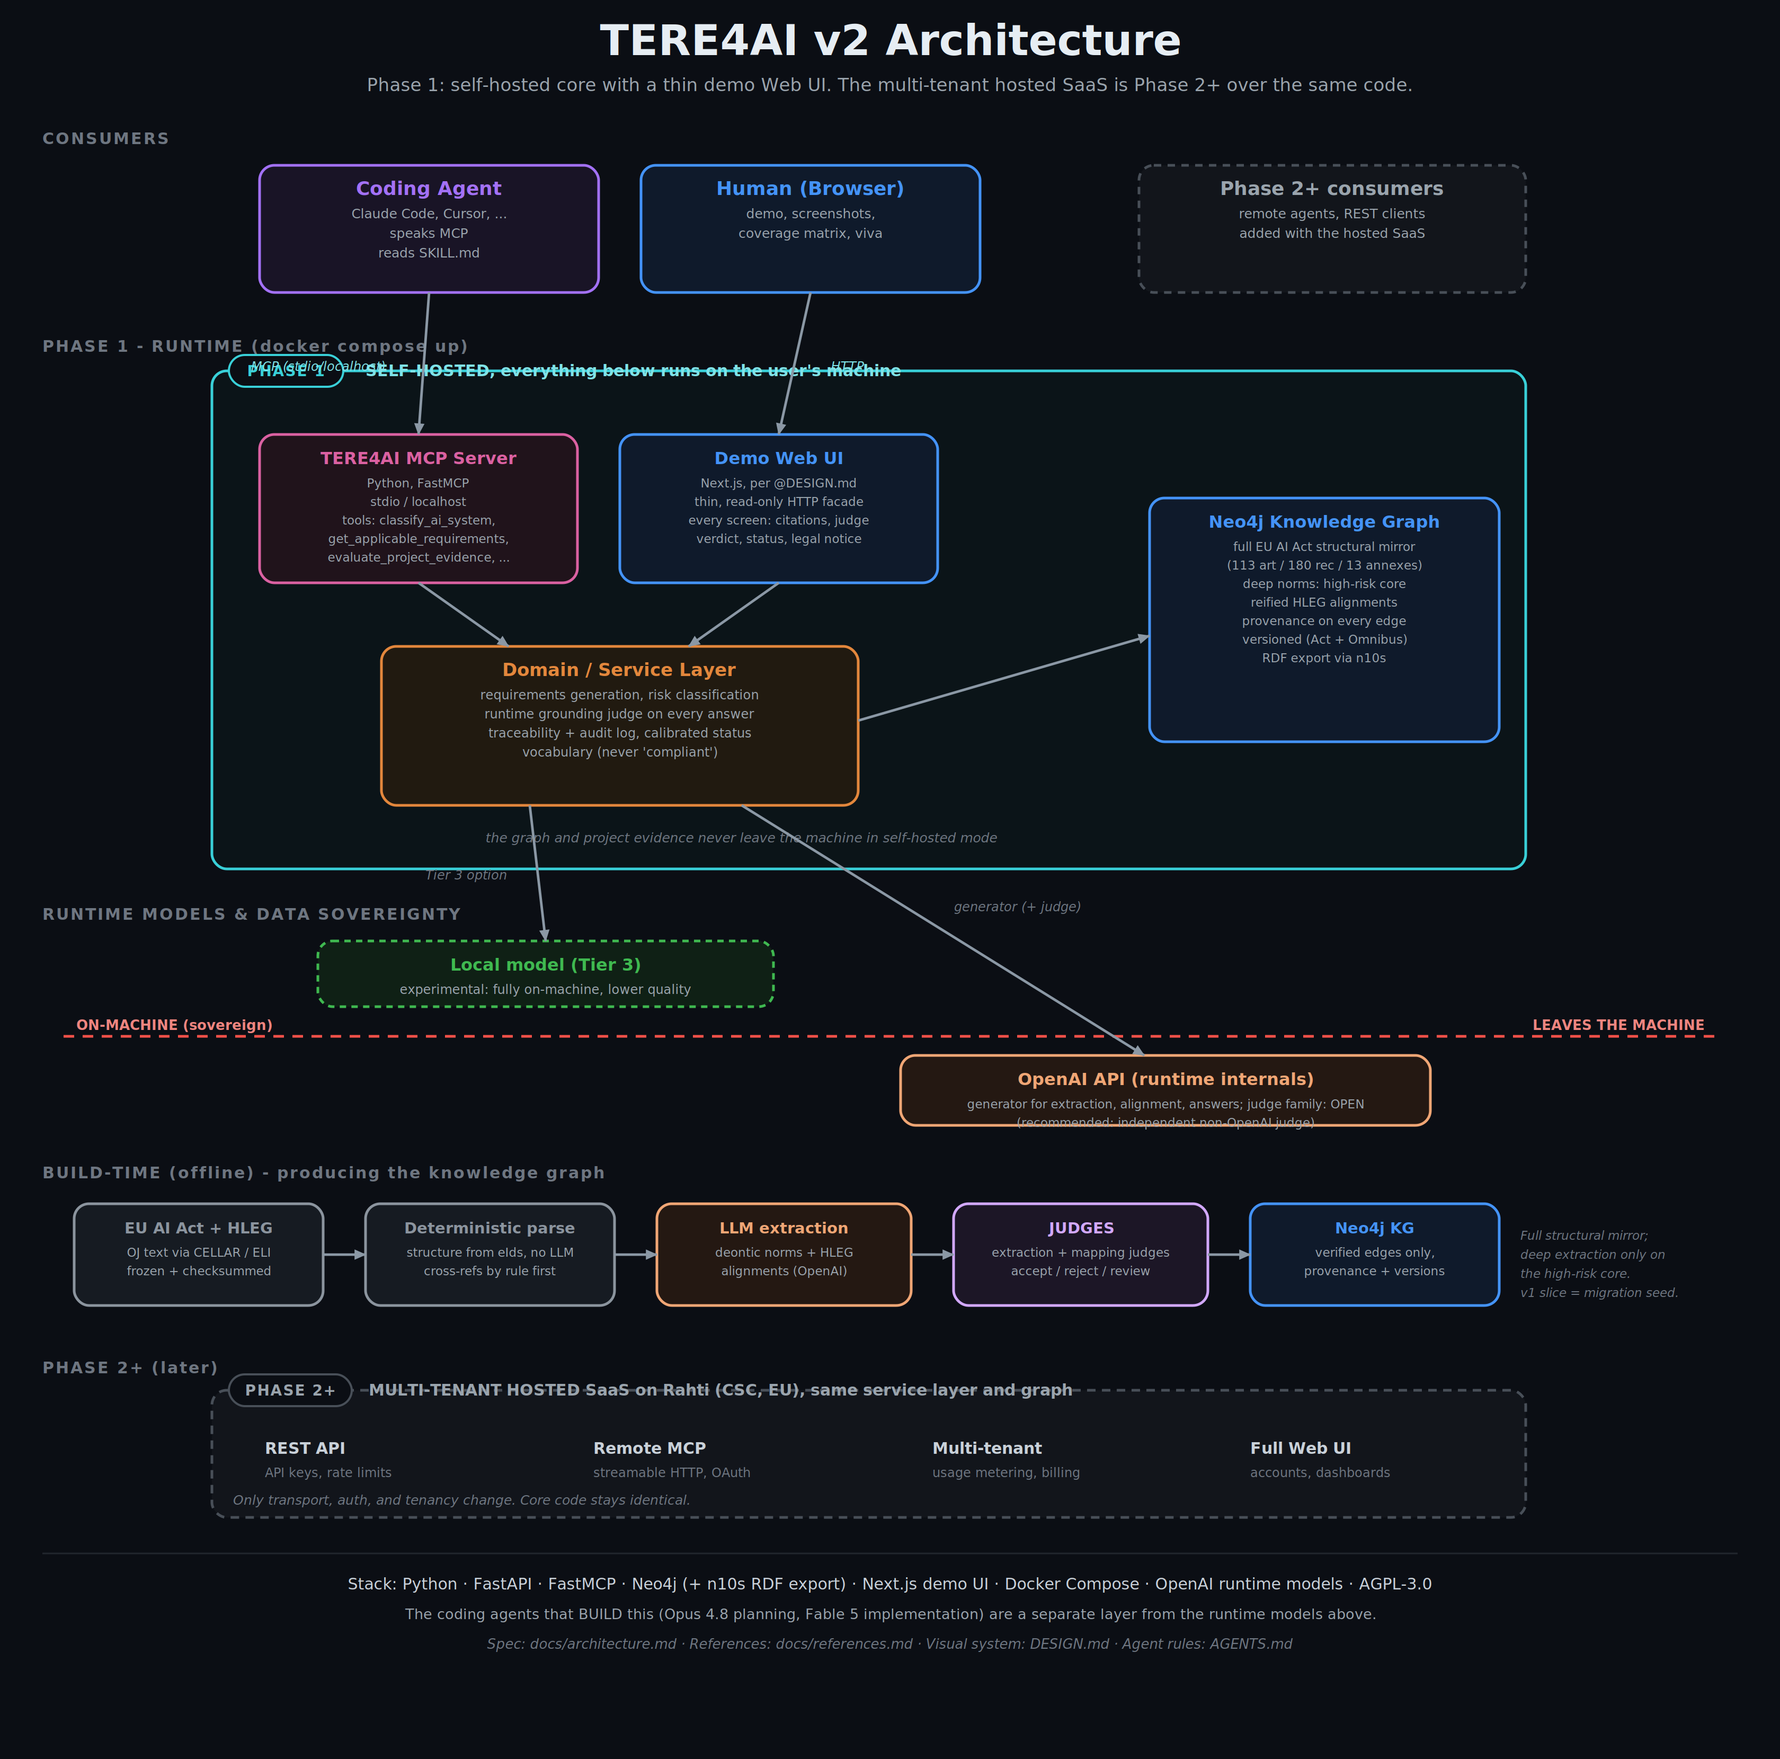
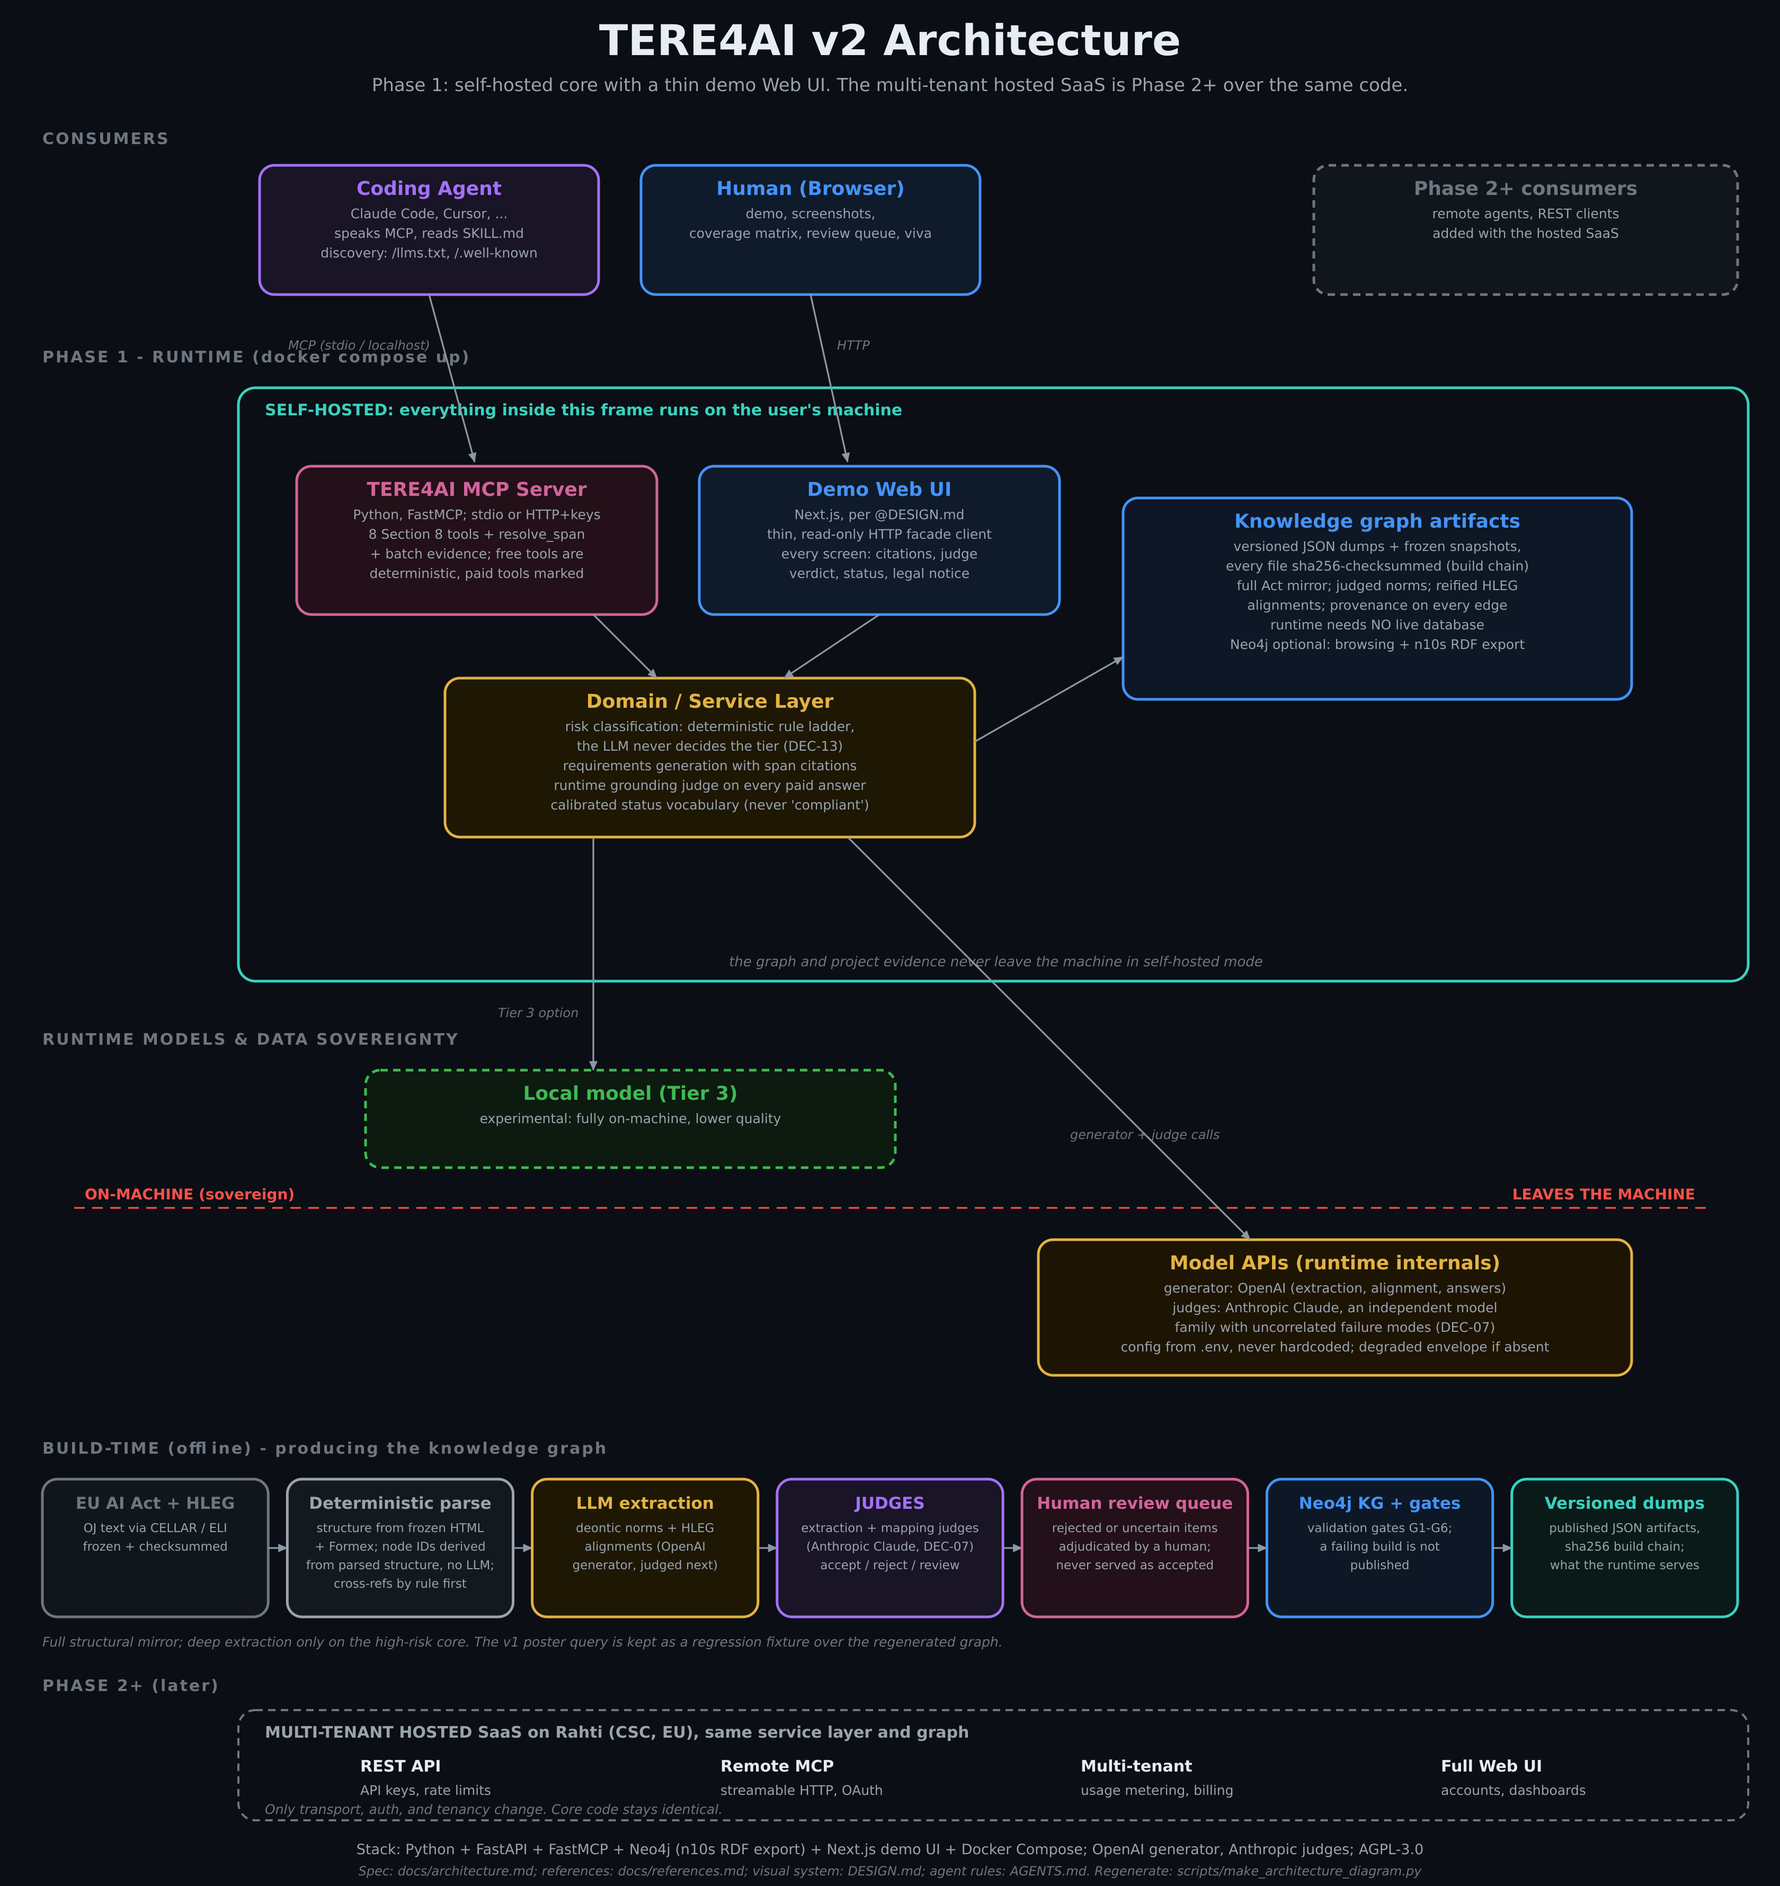
Regenerate the architecture diagram from a deterministic script (3 stale labels fixed)
The committed SVG/PNG was an unregenerable blob carrying three factually
stale labels found by the 2026-07-17 audit: 'structure from eIds' (the
served manifestations carry no eIds; IDs are parser-derived, Section 6),
'judge family: OPEN' (closed 2026-07-08 as Anthropic Claude, DEC-07), and
'v1 slice = migration seed' (replaced by regeneration; the poster query
is a regression fixture). It also had two visual defects (overlapping
edge labels, clipped box text) and misrepresented the runtime as serving
from live Neo4j when it serves versioned checksummed JSON dumps.

scripts/make_architecture_diagram.py now generates the SVG byte-
deterministically (no timestamps); the corrected figure adds the Anthropic
judge to the leaves-the-machine sovereignty zone, a human-review-queue
stage in the build lane, and a versioned-dumps stage; PNG re-rendered via
inkscape at 3360px. tests/unit/test_architecture_diagram.py pins the
committed SVG byte-identical to the generator output and asserts the
stale claims stay out and the decided facts stay in.

diff --git a/scripts/make_architecture_diagram.py b/scripts/make_architecture_diagram.py
@@ -1,0 +1,296 @@
+"""Generate the TERE4AI v2 architecture diagram (SVG) deterministically.
+
+The previous tere4ai_v2_architecture.svg was an unregenerable committed
+blob with three stale labels (eIds that do not exist in the source, an
+open judge-family decision that was closed 2026-07-08, and a v1-migration
+plan that was replaced by regeneration) plus two visual defects
+(overlapping edge labels, clipped box text). This script makes the figure
+a derived artifact like everything else in the build: run it and the SVG
+is rewritten byte-identically (no timestamps, no randomness).
+
+  .venv/bin/python scripts/make_architecture_diagram.py
+  inkscape tere4ai_v2_architecture.svg \
+      --export-filename=tere4ai_v2_architecture.png --export-width=3360
+
+Content decisions encoded here (kept in sync with docs/architecture.md):
+node IDs are parser-derived, not eIds (Section 6); the judge family is
+Anthropic Claude, independent from the OpenAI generator (DEC-07); judge
+calls leave the machine just like generator calls (Section 9 sovereignty);
+the runtime serves versioned, checksummed JSON dumps and needs no live
+database (Neo4j is the build-time store and optional for browsing and RDF
+export); rejected or uncertain items go to a human review queue and are
+never served as accepted.
+"""
+
+from __future__ import annotations
+
+from pathlib import Path
+
+W, H = 1680, 1780
+FONT = "DejaVu Sans, sans-serif"
+BG = "#0b0e14"
+INK = "#e6edf3"
+MUTED = "#9aa4ad"
+FAINT = "#6e7681"
+ARROW = "#8b98a5"
+
+OUT_PATH = Path(__file__).resolve().parents[1] / "tere4ai_v2_architecture.svg"
+
+_parts: list[str] = []
+
+
+def esc(s: str) -> str:
+    return s.replace("&", "&amp;").replace("<", "&lt;").replace(">", "&gt;")
+
+
+def text(
+    x: float,
+    y: float,
+    s: str,
+    size: float = 12.5,
+    fill: str = MUTED,
+    anchor: str = "middle",
+    weight: str | None = None,
+    spacing: str | None = None,
+    style: str | None = None,
+) -> None:
+    attrs = (
+        f'x="{x}" y="{y}" font-family="{FONT}" font-size="{size}" '
+        f'fill="{fill}" text-anchor="{anchor}"'
+    )
+    if weight:
+        attrs += f' font-weight="{weight}"'
+    if spacing:
+        attrs += f' letter-spacing="{spacing}"'
+    if style:
+        attrs += f' font-style="{style}"'
+    _parts.append(f"<text {attrs}>{esc(s)}</text>")
+
+
+def box(
+    x: float,
+    y: float,
+    w: float,
+    h: float,
+    title: str,
+    lines: list[str],
+    stroke: str,
+    fill: str,
+    dashed: bool = False,
+    title_size: float = 18,
+    line_size: float = 12.5,
+) -> tuple[float, float, float, float]:
+    dash = ' stroke-dasharray="7,5"' if dashed else ""
+    _parts.append(
+        f'<rect x="{x}" y="{y}" width="{w}" height="{h}" rx="14" '
+        f'fill="{fill}" stroke="{stroke}" stroke-width="2.5"{dash}/>'
+    )
+    cx = x + w / 2
+    text(cx, y + 28, title, size=title_size, fill=stroke, weight="bold")
+    ly = y + 50
+    for line in lines:
+        text(cx, ly, line, size=line_size)
+        ly += line_size + 6
+    return (x, y, w, h)
+
+
+def arrow(x1: float, y1: float, x2: float, y2: float, label: str = "", lx: float | None = None, ly: float | None = None) -> None:
+    _parts.append(
+        f'<line x1="{x1}" y1="{y1}" x2="{x2}" y2="{y2}" stroke="{ARROW}" '
+        f'stroke-width="1.6" marker-end="url(#ah)"/>'
+    )
+    if label:
+        text(lx if lx is not None else (x1 + x2) / 2 + 8, ly if ly is not None else (y1 + y2) / 2 - 6, label, size=12, fill=FAINT, anchor="start", style="italic")
+
+
+def zone_label(x: float, y: float, s: str) -> None:
+    text(x, y, s, size=15, fill=FAINT, anchor="start", weight="bold", spacing="1.5")
+
+
+def build() -> str:
+    _parts.clear()
+    _parts.append(
+        f'<svg xmlns="http://www.w3.org/2000/svg" width="{W}" height="{H}" '
+        f'viewBox="0 0 {W} {H}">'
+        '<defs><marker id="ah" markerWidth="11" markerHeight="11" refX="8.5" '
+        'refY="4" orient="auto" markerUnits="userSpaceOnUse">'
+        f'<path d="M0,0 L9,4 L0,8 z" fill="{ARROW}"/></marker></defs>'
+        f'<rect x="0" y="0" width="{W}" height="{H}" fill="{BG}"/>'
+    )
+    text(W / 2, 52, "TERE4AI v2  Architecture", size=40, fill=INK, weight="bold")
+    text(
+        W / 2,
+        86,
+        "Phase 1: self-hosted core with a thin demo Web UI. "
+        "The multi-tenant hosted SaaS is Phase 2+ over the same code.",
+        size=17,
+    )
+
+    # Consumers
+    zone_label(40, 136, "CONSUMERS")
+    box(
+        245, 156, 320, 122, "Coding Agent",
+        ["Claude Code, Cursor, ...", "speaks MCP, reads SKILL.md",
+         "discovery: /llms.txt, /.well-known"],
+        "#a371f7", "#191426",
+    )
+    box(
+        605, 156, 320, 122, "Human (Browser)",
+        ["demo, screenshots,", "coverage matrix, review queue, viva"],
+        "#4493f8", "#0f1a2b",
+    )
+    box(
+        1240, 156, 400, 122, "Phase 2+ consumers",
+        ["remote agents, REST clients", "added with the hosted SaaS"],
+        "#6e7681", "#11151c", dashed=True,
+    )
+
+    # Phase 1 runtime zone
+    zone_label(40, 342, "PHASE 1 - RUNTIME (docker compose up)")
+    _parts.append(
+        '<rect x="225" y="366" width="1425" height="560" rx="16" fill="none" '
+        'stroke="#39d2c0" stroke-width="2.5"/>'
+    )
+    text(250, 392, "SELF-HOSTED: everything inside this frame runs on the user's machine",
+         size=15, fill="#39d2c0", anchor="start", weight="bold")
+
+    arrow(405, 278, 448, 436, "MCP (stdio / localhost)", lx=272, ly=330)
+    arrow(765, 278, 800, 436, "HTTP", lx=790, ly=330)
+
+    box(
+        280, 440, 340, 140, "TERE4AI MCP Server",
+        ["Python, FastMCP; stdio or HTTP+keys",
+         "8 Section 8 tools + resolve_span",
+         "+ batch evidence; free tools are",
+         "deterministic, paid tools marked"],
+        "#d2649a", "#231018",
+    )
+    box(
+        660, 440, 340, 140, "Demo Web UI",
+        ["Next.js, per @DESIGN.md",
+         "thin, read-only HTTP facade client",
+         "every screen: citations, judge",
+         "verdict, status, legal notice"],
+        "#4493f8", "#0f1a2b",
+    )
+    box(
+        420, 640, 500, 150, "Domain / Service Layer",
+        ["risk classification: deterministic rule ladder,",
+         "the LLM never decides the tier (DEC-13)",
+         "requirements generation with span citations",
+         "runtime grounding judge on every paid answer",
+         "calibrated status vocabulary (never 'compliant')"],
+        "#e3b341", "#1d1704",
+    )
+    box(
+        1060, 470, 480, 190, "Knowledge graph artifacts",
+        ["versioned JSON dumps + frozen snapshots,",
+         "every file sha256-checksummed (build chain)",
+         "full Act mirror; judged norms; reified HLEG",
+         "alignments; provenance on every edge",
+         "runtime needs NO live database",
+         "Neo4j optional: browsing + n10s RDF export"],
+        "#4493f8", "#0d1726",
+    )
+    arrow(560, 580, 620, 640)
+    arrow(830, 580, 740, 640)
+    arrow(920, 700, 1060, 620)
+    text(940, 912, "the graph and project evidence never leave the machine in self-hosted mode",
+         size=13, fill=FAINT, style="italic")
+
+    # Sovereignty
+    zone_label(40, 986, "RUNTIME MODELS & DATA SOVEREIGNTY")
+    box(
+        345, 1010, 500, 92, "Local model (Tier 3)",
+        ["experimental: fully on-machine, lower quality"],
+        "#3fb950", "#0c1a10", dashed=True,
+    )
+    arrow(560, 790, 560, 1010, "Tier 3 option", lx=470, ly=960)
+    _parts.append(
+        f'<line x1="70" y1="1140" x2="{W - 70}" y2="1140" stroke="#f85149" '
+        'stroke-width="1.6" stroke-dasharray="10,7"/>'
+    )
+    text(80, 1132, "ON-MACHINE (sovereign)", size=14, fill="#f85149", anchor="start", weight="bold")
+    text(W - 80, 1132, "LEAVES THE MACHINE", size=14, fill="#f85149", anchor="end", weight="bold")
+    box(
+        980, 1170, 560, 128, "Model APIs (runtime internals)",
+        ["generator: OpenAI (extraction, alignment, answers)",
+         "judges: Anthropic Claude, an independent model",
+         "family with uncorrelated failure modes (DEC-07)",
+         "config from .env, never hardcoded; degraded envelope if absent"],
+        "#e3b341", "#1d1403",
+    )
+    arrow(800, 790, 1180, 1170, "generator + judge calls", lx=1010, ly=1075)
+
+    # Build-time lane
+    zone_label(40, 1372, "BUILD-TIME (offline) - producing the knowledge graph")
+    lane_y = 1396
+    lane_h = 130
+    boxes = [
+        ("EU AI Act + HLEG", ["OJ text via CELLAR / ELI", "frozen + checksummed"], "#6e7681", "#11151c"),
+        ("Deterministic parse", ["structure from frozen HTML", "+ Formex; node IDs derived", "from parsed structure, no LLM;", "cross-refs by rule first"], "#9aa4ad", "#141920"),
+        ("LLM extraction", ["deontic norms + HLEG", "alignments (OpenAI", "generator, judged next)"], "#e3b341", "#1d1704"),
+        ("JUDGES", ["extraction + mapping judges", "(Anthropic Claude, DEC-07)", "accept / reject / review"], "#a371f7", "#191426"),
+        ("Human review queue", ["rejected or uncertain items", "adjudicated by a human;", "never served as accepted"], "#d2649a", "#231018"),
+        ("Neo4j KG + gates", ["validation gates G1-G6;", "a failing build is not", "published"], "#4493f8", "#0d1726"),
+        ("Versioned dumps", ["published JSON artifacts,", "sha256 build chain;", "what the runtime serves"], "#39d2c0", "#0a1a18"),
+    ]
+    n = len(boxes)
+    gap = 18
+    bw = (W - 80 - gap * (n - 1)) / n
+    x = 40
+    for i, (title, lines, stroke, fill) in enumerate(boxes):
+        box(x, lane_y, bw, lane_h, title, lines, stroke, fill, title_size=15.5, line_size=11.5)
+        if i < n - 1:
+            arrow(x + bw, lane_y + lane_h / 2, x + bw + gap, lane_y + lane_h / 2)
+        x += bw + gap
+    text(
+        40, lane_y + lane_h + 28,
+        "Full structural mirror; deep extraction only on the high-risk core. "
+        "The v1 poster query is kept as a regression fixture over the regenerated graph.",
+        size=12.5, fill=FAINT, anchor="start", style="italic",
+    )
+
+    # Phase 2+
+    zone_label(40, 1596, "PHASE 2+ (later)")
+    _parts.append(
+        '<rect x="225" y="1614" width="1425" height="104" rx="16" fill="none" '
+        'stroke="#6e7681" stroke-width="2" stroke-dasharray="7,5"/>'
+    )
+    text(250, 1640, "MULTI-TENANT HOSTED SaaS on Rahti (CSC, EU), same service layer and graph",
+         size=15, fill=MUTED, anchor="start", weight="bold")
+    cols = [
+        ("REST API", "API keys, rate limits"),
+        ("Remote MCP", "streamable HTTP, OAuth"),
+        ("Multi-tenant", "usage metering, billing"),
+        ("Full Web UI", "accounts, dashboards"),
+    ]
+    cx = 340
+    for title, sub in cols:
+        text(cx, 1672, title, size=15, fill=INK, weight="bold", anchor="start")
+        text(cx, 1694, sub, size=12.5, anchor="start")
+        cx += 340
+    text(250, 1712, "Only transport, auth, and tenancy change. Core code stays identical.",
+         size=12.5, fill=FAINT, anchor="start", style="italic")
+
+    # Footer
+    text(W / 2, 1750,
+         "Stack: Python + FastAPI + FastMCP + Neo4j (n10s RDF export) + Next.js demo UI + "
+         "Docker Compose; OpenAI generator, Anthropic judges; AGPL-3.0",
+         size=13.5, fill=MUTED)
+    text(W / 2, 1770,
+         "Spec: docs/architecture.md; references: docs/references.md; visual system: "
+         "DESIGN.md; agent rules: AGENTS.md. Regenerate: scripts/make_architecture_diagram.py",
+         size=12, fill=FAINT, style="italic")
+
+    _parts.append("</svg>")
+    return "".join(_parts)
+
+
+def main() -> None:
+    OUT_PATH.write_text(build(), encoding="utf-8")
+    print(f"wrote {OUT_PATH}")
+
+
+if __name__ == "__main__":
+    main()

diff --git a/tests/unit/test_architecture_diagram.py b/tests/unit/test_architecture_diagram.py
@@ -1,0 +1,60 @@
+"""The architecture diagram is a derived artifact and stays current.
+
+The previous SVG was an unregenerable blob that drifted from decided facts
+(eIds that do not exist, a judge-family decision left open, a superseded
+v1-migration plan). These tests pin the figure to its generator and the
+generator to the decided facts, so the diagram can never silently drift
+again: the committed SVG must be byte-identical to the generator output,
+must be well-formed XML, and must not contain the stale claims.
+"""
+
+from __future__ import annotations
+
+import sys
+
+# Parsing our own generator's output string, never external XML, so the
+# stdlib parser is safe here (no external entities can occur in build()).
+import xml.etree.ElementTree as ET
+from pathlib import Path
+
+ROOT = Path(__file__).resolve().parents[2]
+sys.path.insert(0, str(ROOT / "scripts"))
+
+from make_architecture_diagram import OUT_PATH, build  # noqa: E402
+
+STALE_CLAIMS = (
+    # No eId attributes exist in the served manifestations (architecture.md S6).
+    "eIds",
+    # DEC-07 closed the judge-family decision on 2026-07-08.
+    "judge family: OPEN",
+    # M2 replaced v1-slice migration with regeneration; the poster query is a fixture.
+    "migration seed",
+)
+
+DECIDED_FACTS = (
+    "no LLM",
+    "Anthropic Claude",
+    "regression fixture",
+    "runtime needs NO live database",
+    "never 'compliant'",
+)
+
+
+def test_committed_svg_matches_the_generator_output():
+    assert OUT_PATH.read_text(encoding="utf-8") == build(), (
+        "tere4ai_v2_architecture.svg differs from its generator; run "
+        ".venv/bin/python scripts/make_architecture_diagram.py and re-render "
+        "the PNG"
+    )
+
+
+def test_svg_is_well_formed_xml():
+    ET.fromstring(build())
+
+
+def test_no_stale_claims_and_all_decided_facts_present():
+    svg = build()
+    for stale in STALE_CLAIMS:
+        assert stale not in svg, f"stale claim back in the diagram: {stale!r}"
+    for fact in DECIDED_FACTS:
+        assert fact in svg, f"decided fact missing from the diagram: {fact!r}"
